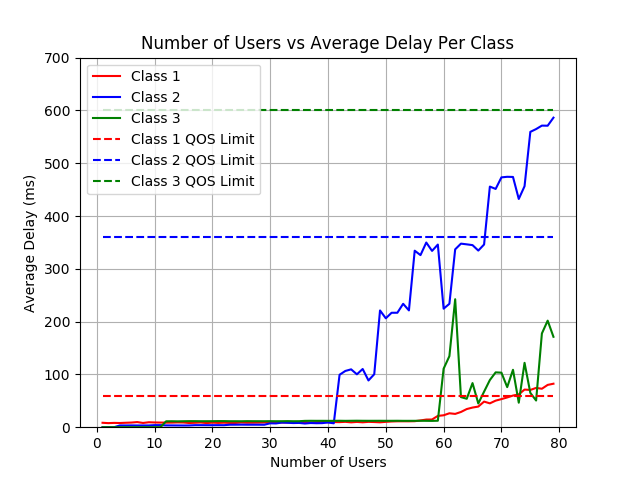
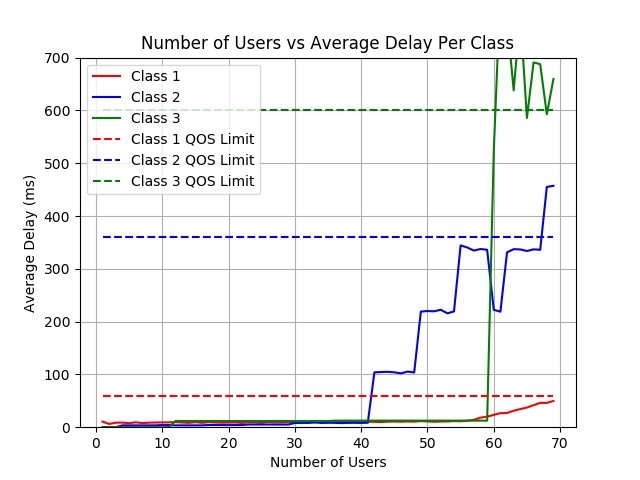
Done!

diff --git a/RRM_lib.py b/RRM_lib.py
@@ -29,6 +29,7 @@ class_3 = {"priority": 3,               # priority
 
 packet_s = {"src": -1,                  # User ID
             "dest": -1,                 # MS ID
+            "class": -1,
             "size": -1,                 # bits
             "T_MS": -1,                 # Time to transmit to MS
             "R_MS": -1,                 # TX rate achievable from BS to MS
@@ -84,11 +85,15 @@ class Radio_Resource_Manager(object):
 
         self.delays_per_user = np.zeros(self.N)
         self.transmissions_per_user = np.zeros(self.N)
-        self.MS_received_pkts = np.zeros(self.N_MS)
+        self.MS_received_pkts = []
+
+        #for i in range(self.N_MS):
+        #    self.MS_received_pkts.append([])
+
         self.packet_delays_per_class = [ [], [], [] ]
 
         # default to empty packet
-        self.pkt_to_tx = self.get_new_packet(-1, -1, -1, -1,-1, -1)
+        self.pkt_to_tx = self.get_new_packet(-1, -1, -1, -1,-1,-1, -1)
         self.max_delay_per_class = [-1.0, -1.0, -1.0]
         self.transmitting_to_MS = False
         self.tx_expiration = -1
@@ -192,7 +197,7 @@ class Radio_Resource_Manager(object):
                 tx_rate = self.MS_SE[dest]                          # bps
                 t_MS = (size / tx_rate) * 1e3                       # time to tx to MS
                 # make a new packet
-                new_pkt = self.get_new_packet(usr, dest, size, t_MS, tx_rate, current_slt)
+                new_pkt = self.get_new_packet(usr, dest, size, t_MS, tx_rate,class_id, current_slt)
 
                 # add the packet to the that users queue
                 self.push_packet(usr, new_pkt)
@@ -210,29 +215,29 @@ class Radio_Resource_Manager(object):
     # based on the priority scheme
     def priority_based_scheduler(self):
         #print "\n**Priority Based Scheduler**"
-
         tx_time = 1.0 # msec
 
-        while 1 == 1:
-            for class_id in range(3):
-                if self.class_n_packets_avail(class_id + 1):
-                    # shuffle user list
-                    usr_list = self.class_n_usrs[class_id].copy()
-                    random.shuffle(usr_list)
-                    while empty_users != len(usr_list):
-                        empty_users = 0
-                        for usr in usr_list:
-                            if len(self.user_queues[usr]) > 0:
-                                t_to_dec = self.user_queues[usr][-1].get("T_MS")
-                                if (tx_time - t_to_dec) > 0.0:
-                                    # pop the usr packet off the queue and add it to the tx queue
-                                    pkt = self.pop_packet(usr)
-                                    self.transmit_queue.appendleft(pkt)
-                                    tx_time = tx_time - t_to_dec
-                                else:
-                                    return
+        for class_id in range(3):
+            if self.class_n_packets_avail(class_id + 1):
+                # shuffle user list
+                usr_list = self.class_n_usrs[class_id].copy()
+                random.shuffle(usr_list)
+                empty_users = 0
+                while empty_users != len(usr_list):
+                    empty_users = 0
+                    for usr in usr_list:
+                        if len(self.user_queues[usr]) > 0:
+                            t_to_dec = self.user_queues[usr][-1].get("T_MS")
+                            if (tx_time - t_to_dec) > 0.0:
+                                # pop the usr packet off the queue and add it to the tx queue
+                                pkt = self.pop_packet(usr)
+                                self.transmit_queue.appendleft(pkt)
+                                tx_time = tx_time - t_to_dec
                             else:
-                                empty_users += 1
+                                return
+                        else:
+                            empty_users += 1
+
 
     def WRR_scheduler(self, class_durations, current_slt):
         tx_time = 1.0
@@ -431,13 +436,13 @@ class Radio_Resource_Manager(object):
             pkt = self.transmit_queue.pop()
             src = pkt.get("src")
             dest = pkt.get("dest")
-
+            pkt_class_id = pkt.get("class")
 
             self.transmissions_per_user[src] += 1
-            delay = (current_slt - pkt.get("TOD")) #+ time_tracker
+            delay = (current_slt - pkt.get("TOD")) + time_tracker
 
             #self.delays_per_user[src] += delay
-            self.MS_received_pkts[dest] += 1
+            #self.MS_received_pkts[dest][pkt_class_id] += 1
 
             # track max delay per class
             if (delay > self.max_delay_per_class[self.user_class_map[src] - 1] ):
@@ -588,12 +593,13 @@ class Radio_Resource_Manager(object):
             dq = deque()
             self.user_queues.append(dq)
 
-    def get_new_packet(self, src, dest, size, t_MS, tx_rate, TOD):
+    def get_new_packet(self, src, dest, size, t_MS, tx_rate, class_id, TOD):
         new_pkt = packet_s.copy()
         new_pkt["src"] = src
         new_pkt["dest"] = dest
         new_pkt["size"] = size
         new_pkt["T_MS"] = t_MS
         new_pkt["R_MS"] = tx_rate
+        new_pkt["class"] = class_id
         new_pkt["TOD"] = TOD
         return new_pkt

diff --git a/simulation.py b/simulation.py
@@ -12,20 +12,15 @@ time_slot_duration = 1.0    # msec
 N_MS = 8                  # number of mobile stations
 
 
-scheduler = 1
+scheduler = 0
 
 T = 100000         # number of simulations slots
 Tf = 30 #90  # 1 msec slots
 
-backoff = 0.0 # 3.0
-c1_bf = 15.0
-#c1_per = (100.0/3) - c1_bf + backoff/2
-#c2_per = (100.0/3) + c1_bf + backoff/2
-#c3_per = (100.0/3) - backoff
-
-c1_per = 28.0 - 2.5
-c2_per = 56.5 - 2.5
-c3_per = 15.5 + 5
+backoff = -0.0
+c1_per = 28.0 - backoff/2
+c2_per = 56.5 - backoff/2
+c3_per = 15.5 + backoff
 
 W = np.array([c1_per / 100, c2_per / 100, c3_per / 100])
 
@@ -38,13 +33,13 @@ if c_sum != 100.0:
 
 
 if scheduler == 0:
-    N_usrs = 130
+    N_usrs = 100
 
 elif scheduler == 1:
-    N_usrs = 80
+    N_usrs = 70
 
 elif scheduler == 2:
-    N_usrs = 80
+    N_usrs = 70
 
 else:
     print "Scheduler Error"
@@ -75,6 +70,9 @@ class_3_std_delay = []
 class_1_max_delay = []
 class_2_max_delay = []
 class_3_max_delay = []
+
+c1_pop_below_QOS = []
+c2_pop_below_QOS = []
 
 for N in N_array:
 
@@ -166,40 +164,43 @@ for N in N_array:
     #c2_delays = d_per_usr[c2_idx]
     #c3_delays = d_per_usr[c3_idx]
 
-    c1_delays_per_user = np.array(RRM.packet_delays_per_class[0])
-    if len(c1_delays_per_user) == 0:
-        c1_delays_per_user = np.zeros(1)
+    c1_delays_per_class = np.array(RRM.packet_delays_per_class[0])
+    if len(c1_delays_per_class) == 0:
+        c1_delays_per_class = np.zeros(1)
 
-    c2_delays_per_user = np.array(RRM.packet_delays_per_class[1])
-    if len(c2_delays_per_user) == 0:
-        c2_delays_per_user = np.zeros(1)
+    c2_delays_per_class = np.array(RRM.packet_delays_per_class[1])
+    if len(c2_delays_per_class) == 0:
+        c2_delays_per_class = np.zeros(1)
 
-    c3_delays_per_user = np.array(RRM.packet_delays_per_class[2])
-    if len(c3_delays_per_user) == 0:
-        c3_delays_per_user = np.zeros(1)
+    c3_delays_per_class = np.array(RRM.packet_delays_per_class[2])
+    if len(c3_delays_per_class) == 0:
+        c3_delays_per_class = np.zeros(1)
 
-    c1_avg_delays = np.average(c1_delays_per_user)
-    c2_avg_delays = np.average(c2_delays_per_user)
-    c3_avg_delays = np.average(c3_delays_per_user)
+    c1_avg_delays = np.average(c1_delays_per_class)
+    c2_avg_delays = np.average(c2_delays_per_class)
+    c3_avg_delays = np.average(c3_delays_per_class)
 
     class_1_avg_delay.append(c1_avg_delays)
     class_2_avg_delay.append(c2_avg_delays)
     class_3_avg_delay.append(c3_avg_delays)
 
-    c1_std_delays = np.std(c1_delays_per_user)
-    c2_std_delays = np.std(c2_delays_per_user)
-    c3_std_delays = np.std(c3_delays_per_user)
+    c1_std_delays = np.std(c1_delays_per_class)
+    c2_std_delays = np.std(c2_delays_per_class)
+    c3_std_delays = np.std(c3_delays_per_class)
 
     class_1_std_delay.append(c1_std_delays)
     class_2_std_delay.append(c2_std_delays)
     class_3_std_delay.append(c3_std_delays)
 
+    # percent of packets with delay below
+    c1_pop_below_QOS.append( 100.0*len(np.where(c1_delays_per_class < 60.0)[0]) / len(c1_delays_per_class))
+    c2_pop_below_QOS.append( 100.0*len(np.where(c2_delays_per_class < 360.0)[0]) / len(c2_delays_per_class))
 
 
 plt.figure(1)
-plt.plot(N_array, class_1_throughput, label='Class 1')
-plt.plot(N_array, class_2_throughput, label='Class 2')
-plt.plot(N_array, class_3_throughput, label='Class 3')
+plt.plot(N_array, class_1_throughput, label='Class 1', color='r')
+plt.plot(N_array, class_2_throughput, label='Class 2', color='b')
+plt.plot(N_array, class_3_throughput, label='Class 3', color='g')
 plt.legend()
 plt.grid()
 plt.xlabel("Number of Users")
@@ -207,6 +208,7 @@ plt.ylabel("Throughput (Kbps)")
 plt.title("Number of Users vs Throughput Per Class")
 if scheduler == 0:
     plt.savefig("figures/Priority_Oriented_Throughput.png")
+    a = 0
 elif scheduler == 1:
     plt.savefig("figures/WRR_Throughput.png")
 elif scheduler == 2:
@@ -235,6 +237,7 @@ plt.ylim([0, 700])
 
 if scheduler == 0:
     plt.savefig("figures/Priority_Oriented_Avg_Delay.png")
+    a = 0
 elif scheduler == 1:
     plt.savefig("figures/WRR_Avg_Delay.png")
 elif scheduler == 2:
@@ -252,10 +255,27 @@ plt.ylabel("Standard Deviation of Delay (ms)")
 plt.title("Number of Users vs Standard Deviation of Delay Per Class")
 if scheduler == 0:
     plt.savefig("figures/Priority_Oriented_Std_Delay.png")
+    a = 0
 elif scheduler == 1:
     plt.savefig("figures/WRR_Std_Delay.png")
 elif scheduler == 2:
     plt.savefig("figures/WRR_PFT_Std_Delay.png")
 
 
+plt.figure(4)
+plt.plot(N_array, c1_pop_below_QOS, label='Class 1 (Below 60 msec)', color='r')
+plt.plot(N_array, c1_pop_below_QOS, label='Class 2 (Below 360 msec)', color='b')
 
+plt.plot(N_array, np.ones(len(N_array))*90.0, label='90% Threshold', color='g', linestyle='--')
+
+plt.legend()
+plt.grid()
+plt.xlabel("Number of Users")
+plt.ylabel("Percent of Packets")
+plt.title("Percent of Packets Below Class 1 and Class 2 QoS Delay Restriction")
+if scheduler == 0:
+    plt.savefig("figures/Priority_Oriented_POP_Delay.png")
+elif scheduler == 1:
+    plt.savefig("figures/WRR_POP_Delay.png")
+elif scheduler == 2:
+    plt.savefig("figures/WRR_PFT_POP_Delay.png")
